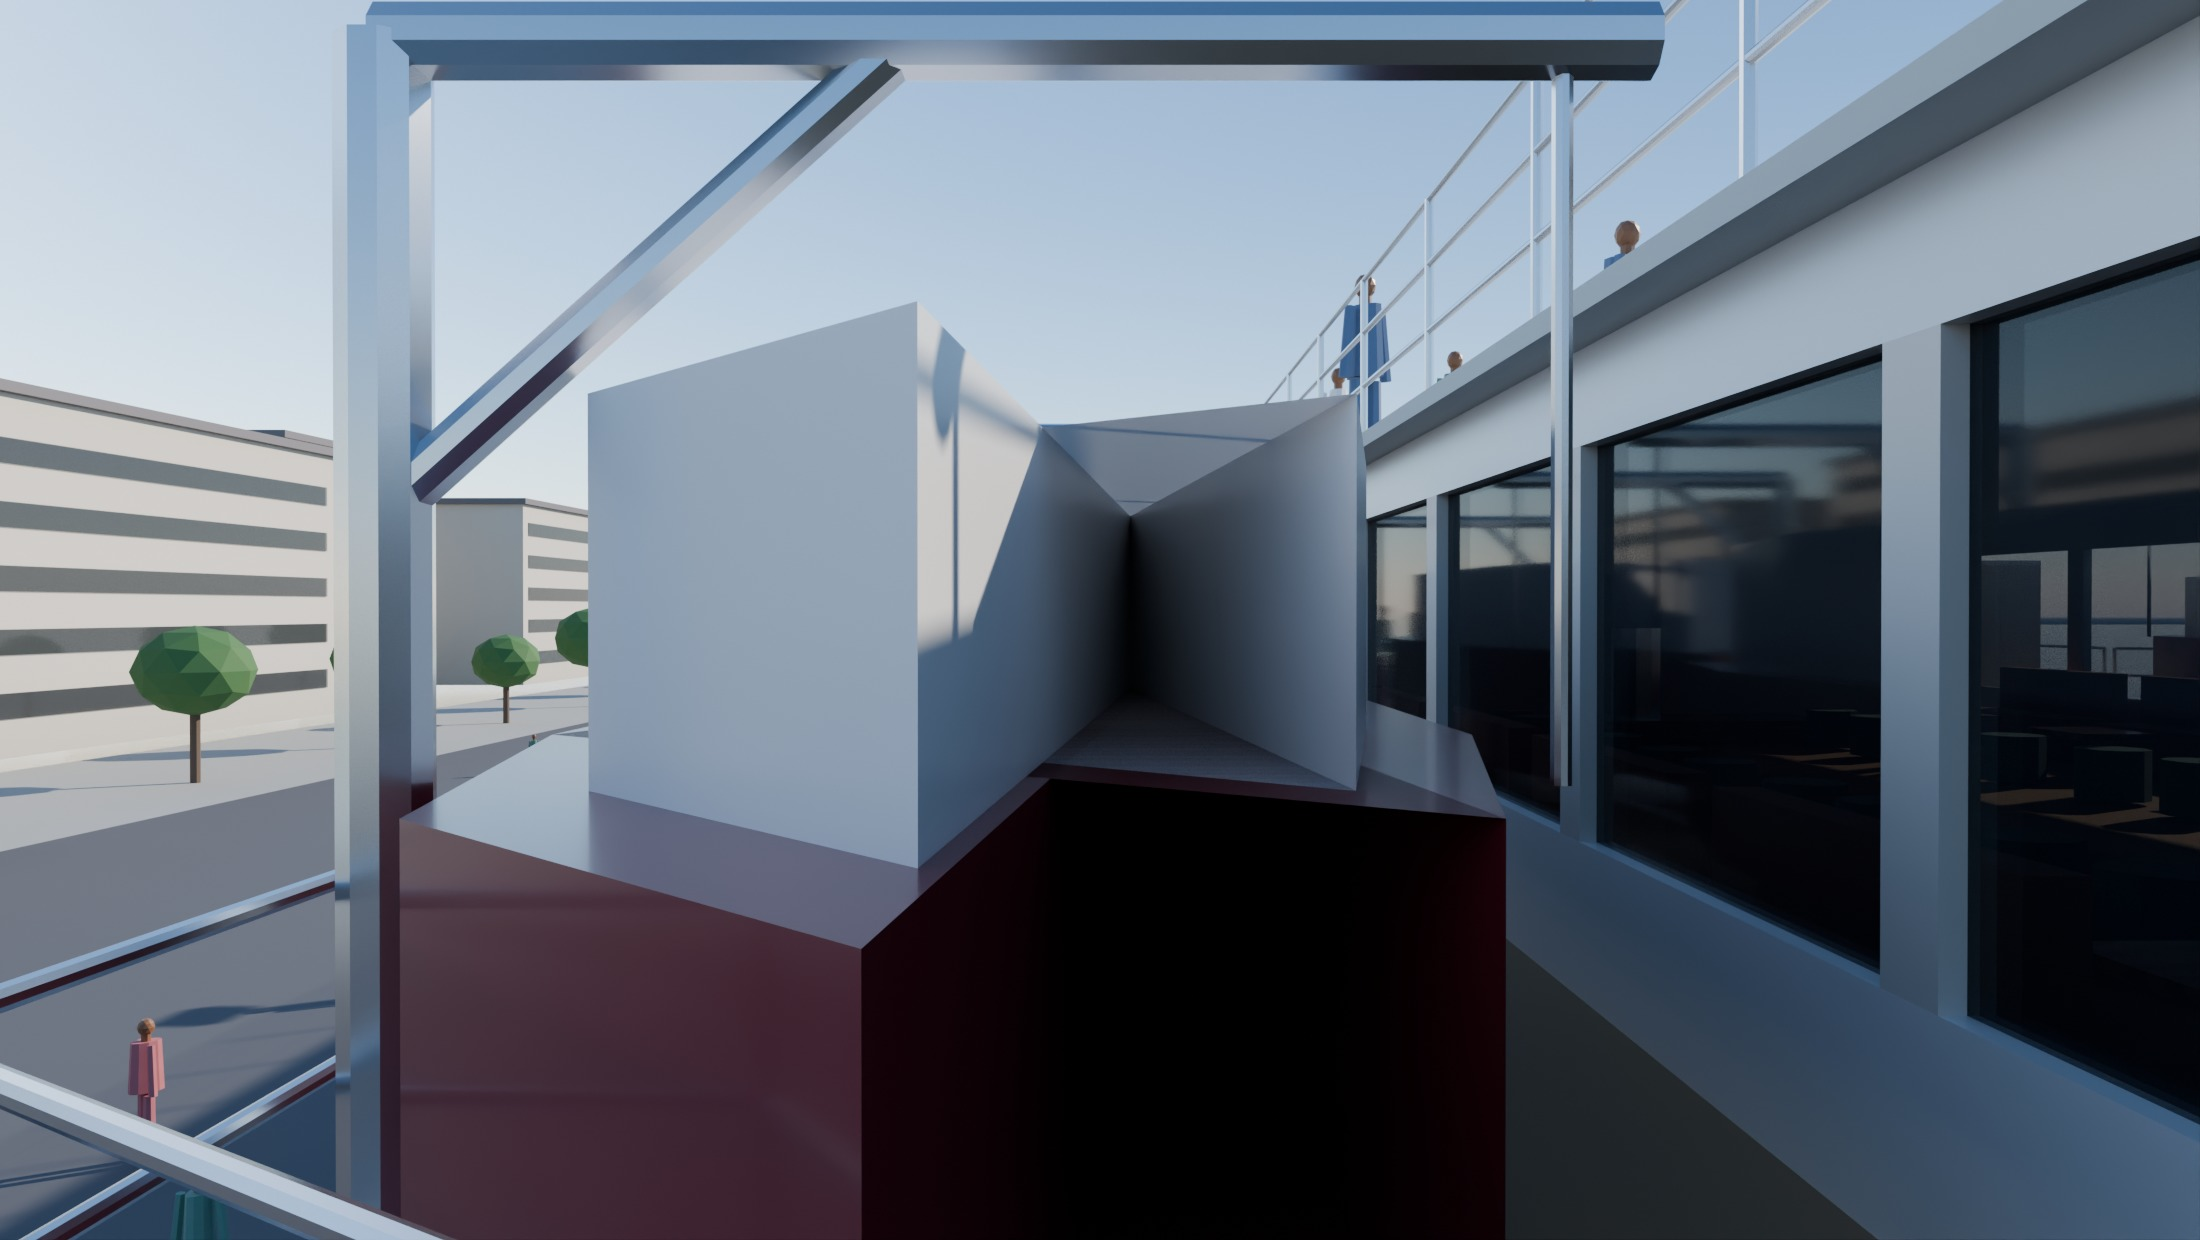
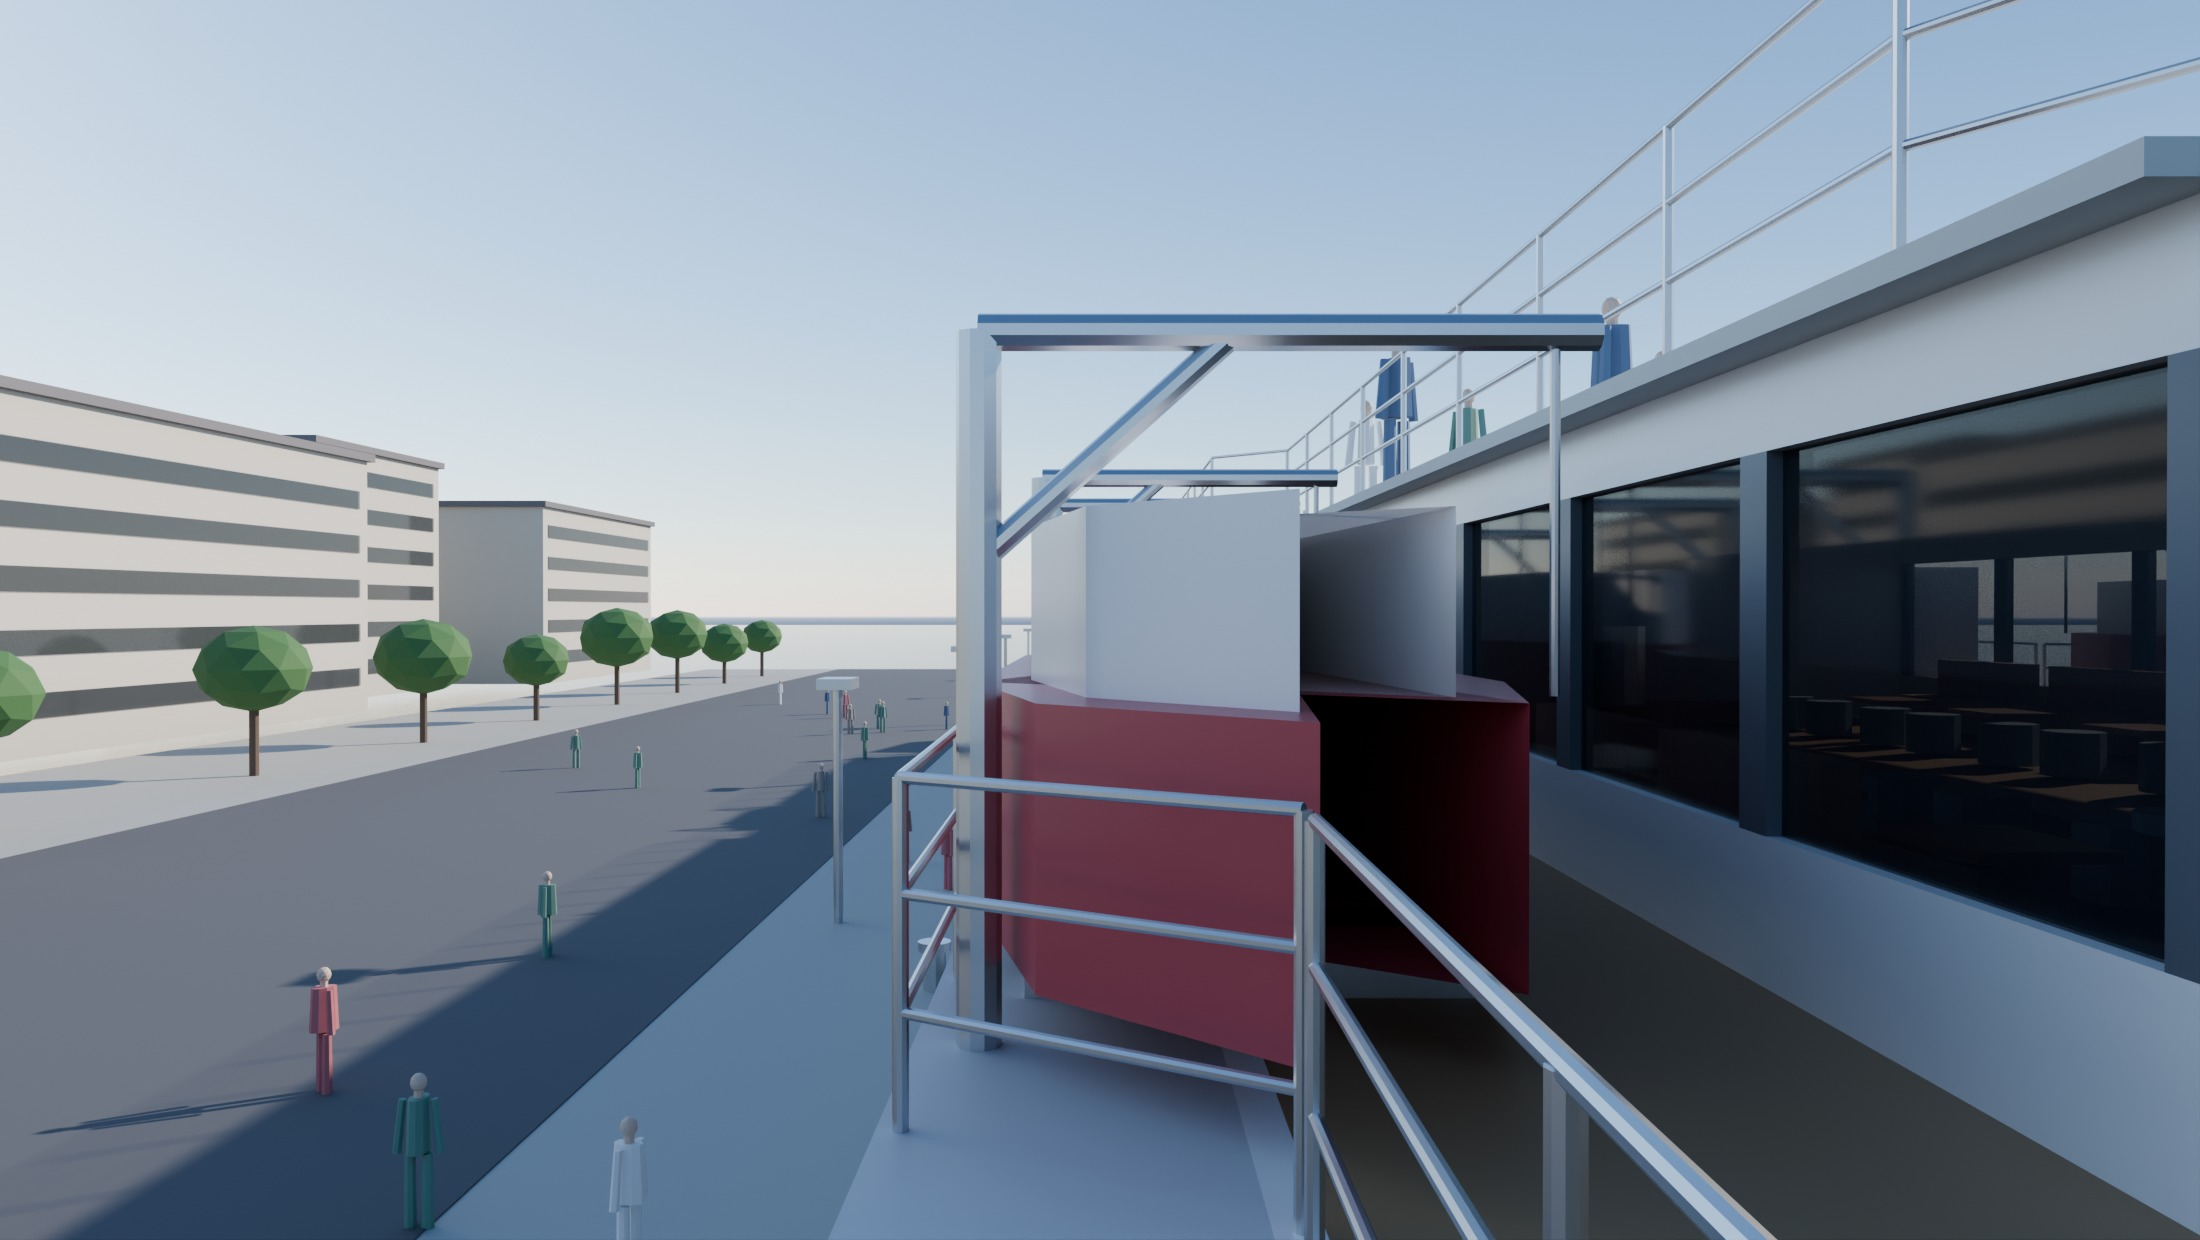
Класс «М» в текстах, ракурсы палубных видов
В записке, на миделе и в чертеже узла оставались подписи «класс О» и
волна 2,0 м, пока расчёт уже шёл по «М» и 3,0 м. Теперь разряд берётся
из gorizont.RRR_CLASS, а не вписан в функцию.

Палубные ракурсы переставлены: камера на шлюпочном променаде упиралась
в шлюпбалку, на главной палубе — в затылок пассажиру, а вид у
набережной смотрел вдоль борта мимо судна.

diff --git a/scripts/записка_теория.py b/scripts/записка_теория.py
@@ -225,7 +225,8 @@ for a_, b_ in zip(rows_rrr, rows_rrr_sup):
     rows.append([a_["name"], "%s %s" % (a_["op"].replace(">=", "≥").replace("<=", "≤"), lim),
                  "%s %s" % (("%g" % round(a_["value"], 3)), mark),
                  "%s %s" % (("%g" % round(b_["value"], 3)), mark2)])
-tab(["Критерий РРР, класс «О»", "Норма", "Корпус", "С надстройкой"], rows)
+tab(["Критерий РРР, класс «%s»" % G.RRR_CLASS, "Норма", "Корпус",
+     "С надстройкой"], rows)
 bad = [r["name"] for r in rows_rrr if not r["ok"]]
 if bad:
     A("Не выполнены по корпусу: " + ", ".join(bad) + ".")
@@ -242,11 +243,11 @@ A("палубы входит в воду на %s°, и дальше широки
 A("физически не может наращивать восстанавливающий момент. С учётом закрытой")
 A("надстройки максимум смещается за 25° и без послабления.")
 A("")
-A("Кренящий момент от ветра %.0f т·м при давлении %s кПа (класс «О») на"
+A("Кренящий момент от ветра %.0f т·м при давлении %s кПа (класс «М») на"
   % (w_h["Mv"], f(0.294, 3)))
 A("площадь парусности %.0f м² с плечом %s м. Опрокидывающий момент %.0f т·м."
   % (w_h["A"], f(w_h["zw"]), w_h["Mopr"]))
-A("Амплитуда качки принята %s° по максимальному уклону волны класса «О»"
+A("Амплитуда качки принята %s° по максимальному уклону волны класса «М»"
   % f(w_h["theta_r"], 1))
 A("(высота 2.0 м, длина 20 м) с поправкой на демпфирование.")
 A("")
@@ -768,7 +769,9 @@ A("Строевая нагрузки масс строится по таблиц
 A("распределяется по своей длине, корпус — пропорционально площади сечения")
 A("обшивки. Силы поддержания — из обводов. Судно уравновешивается на тихой")
 A("воде и на волне подбором погружения и дифферента, дальше интегрируется")
-A("q(x) → N(x) → M(x). Волна класса «О»: высота 2.0 м, длина равна длине судна;")
+A("q(x) → N(x) → M(x). Волна класса «%s»: высота %.1f м, длина равна длине"
+  % (H.CLASS, H.WAVE_HEIGHT[H.CLASS]))
+A("судна;")
 A("вершина на миделе даёт перегиб, подошва — прогиб.")
 A("")
 A("Эквивалентный брус на мидель-шпангоуте (шп. %d, x = %s м):"
@@ -1004,7 +1007,8 @@ tab(["Что проверяли", "Результат", "Вывод"], [
      "практически ровный киль, балансировка удачная"],
     ["Начальная остойчивость", "h = %s м" % f(st["h"]), "с большим избытком, качка резкая"],
     ["Остойчивость на больших углах",
-     "%d из %d норм РРР класса «О»" % (sum(1 for r in rows_rrr if r["ok"]), len(rows_rrr)),
+     "%d из %d норм РРР класса «%s»" % (sum(1 for r in rows_rrr if r["ok"]),
+                                        len(rows_rrr), H.CLASS),
      "выполнены все" if all(r["ok"] for r in rows_rrr) else "см. раздел 6"],
     ["Непотопляемость", "одноотсечная обеспечена",
      "надводный борт в худшем случае %s м" % f(worst)],

diff --git a/scripts/blender_рендер_видов.py b/scripts/blender_рендер_видов.py
@@ -38,19 +38,19 @@ VIEWS = [
     ("04_нос_и_рубка",
      (L * 1.30, B * 2.3, 21.0), (L * 0.86, 0.0, 10.0), 48.0),
     ("05_шлюпочный_променад",
-     (L * 0.28, B * 0.40, DK["шлюпочная"] + 1.62),
-     (L * 0.85, B * 0.40, DK["шлюпочная"] + 1.05), 24.0),
+     (L * 0.26, 7.45, DK["шлюпочная"] + 1.62),
+     (L * 0.86, 7.45, DK["шлюпочная"] + 1.05), 24.0),
     ("06_солнечная_палуба",
-     (L * 0.36, -B * 0.24, DK["солнечная"] + 1.62),
-     (L * 0.84, 0.0, DK["солнечная"] + 1.15), 22.0),
+     (L * 0.34, -1.30, DK["солнечная"] + 1.62),
+     (L * 0.80, 1.00, DK["солнечная"] + 1.05), 24.0),
     ("07_главная_палуба_променад",
-     (L * 0.24, B * 0.44, DK["главная"] + 1.62),
-     (L * 0.80, B * 0.42, DK["главная"] + 1.10), 24.0),
+     (L * 0.20, 7.55, DK["главная"] + 1.62),
+     (L * 0.84, 7.45, DK["главная"] + 1.05), 24.0),
     ("08_вид_сверху",
      (L * 0.50, 0.0, 120.0), (L * 0.50, 0.0, 6.0), ("орто", 150.0),
      (2600, 420), False),
     ("09_у_набережной",
-     (L * 0.98, -B * 2.5, 5.2), (L * 0.12, B * 0.10, 8.0), 32.0),
+     (L * 1.06, -B * 1.15, 7.6), (L * 0.34, B * 0.25, 8.4), 28.0),
 ]
 
 def _hide_env():

diff --git a/src/lib/gorizont_strength.py b/src/lib/gorizont_strength.py
@@ -13,8 +13,8 @@
      и абсцисса центра величины.
   4. q(x) = w(x) - b(x), перерезывающая сила N(x) = интеграл q,
      изгибающий момент M(x) = интеграл N.
-  5. Волна длиной в длину судна, высотой по классу РРР: для класса «О»
-     h = 2.0 м. Считаются оба случая: вершина на миделе (перегиб) и
+  5. Волна длиной в длину судна, высотой по классу РРР: для класса «М»
+     h = 3.0 м. Считаются оба случая: вершина на миделе (перегиб) и
      подошва на миделе (прогиб).
   6. Напряжения по моменту сопротивления эквивалентного бруса из
      `gorizont_struct`.

diff --git a/src/lib/gorizont_awts.py b/src/lib/gorizont_awts.py
@@ -69,7 +69,7 @@ ISOLATOR = dict(type="АПС-1500", rated_kgf=1500.0, stiffness_kN_m=900.0)
 F_DG = 750.0 / 60.0            # частота вращения ГДГ, Гц
 F_BLADE = 200.0 / 60.0 * 4.0   # лопастная частота гребного винта, Гц
 
-# --- перегрузки по РРР для класса «О» (М-СП) -------------------------------
+# --- перегрузки по РРР для класса «М» --------------------------------------
 # Вертикальная — от килевой и вертикальной качки в районе миделя, поперечная
 # и продольная — от бортовой и килевой качки; крен и дифферент статические.
 CASES = [

diff --git a/scripts/чертёж_мидель.py b/scripts/чертёж_мидель.py
@@ -180,7 +180,8 @@ lines += ["",
           (r["steel"]["name"], r["steel"]["ReH"]),
           "Допускаемое напряжение 0.60·ReH = %.0f МПа, использовано %.0f %%" %
           (r["sigma_allow"], 100 * max(x["sigma_deck"] for x in r["rows"]) / r["sigma_allow"]),
-          "Волна класса «О»: высота 2.0 м, длина равна длине судна"]
+          "Волна класса «%s»: высота %.1f м, длина равна длине судна"
+          % (H.CLASS, H.WAVE_HEIGHT[H.CLASS])]
 for i, s_ in enumerate(lines):
     ax3.text(0, 0.92 - i * 0.055, s_, fontsize=8.8, color=INK if i < 4 else "#3a4658",
              family="DejaVu Sans", transform=ax3.transAxes)

diff --git a/scripts/чертёж_фундамент_очистки.py b/scripts/чертёж_фундамент_очистки.py
@@ -241,7 +241,7 @@ ax.text(0.0, 1.03, "Расчётные нагрузки", transform=ax.transAxes
         color=INK, fontweight="bold")
 ax.text(0.0, 0.93,
         "Масса блока: сухая %.1f т, рабочая заправка %.1f т, металл рамы "
-        "%.2f т, поддон %.2f т. Перегрузки — по нормам РРР для класса «О»"
+        "%.2f т, поддон %.2f т. Перегрузки — по нормам РРР для класса «М»"
         % (R["masses"]["dry"], R["masses"]["liquid"], R["masses"]["steel"],
            R["masses"]["tray"]),
         transform=ax.transAxes, fontsize=8.5, color="#56627a")
